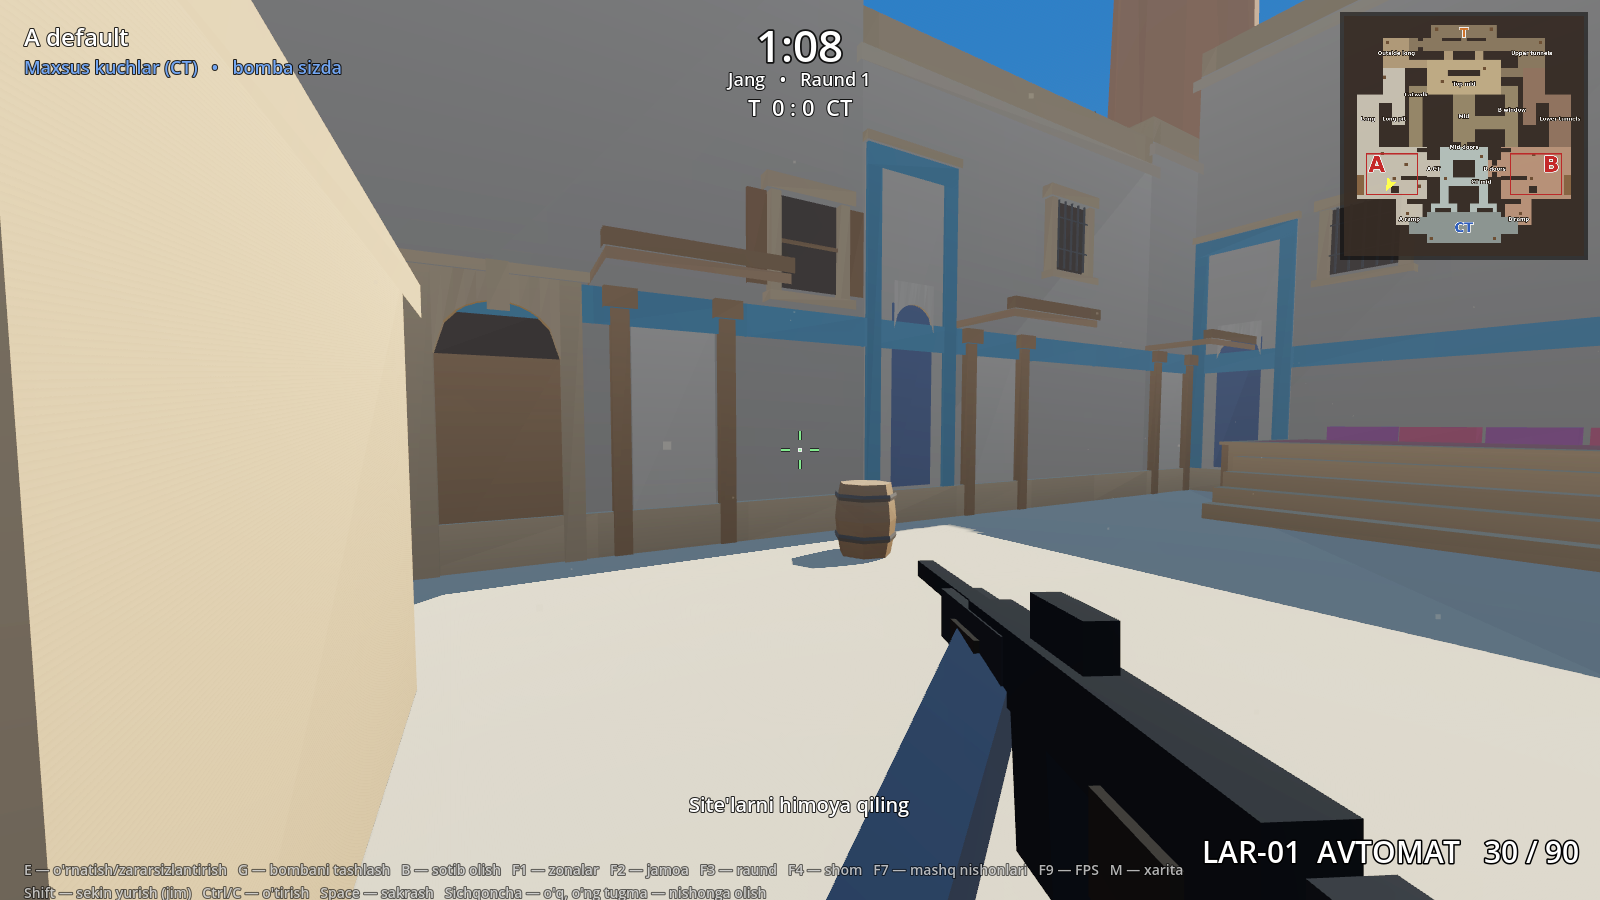
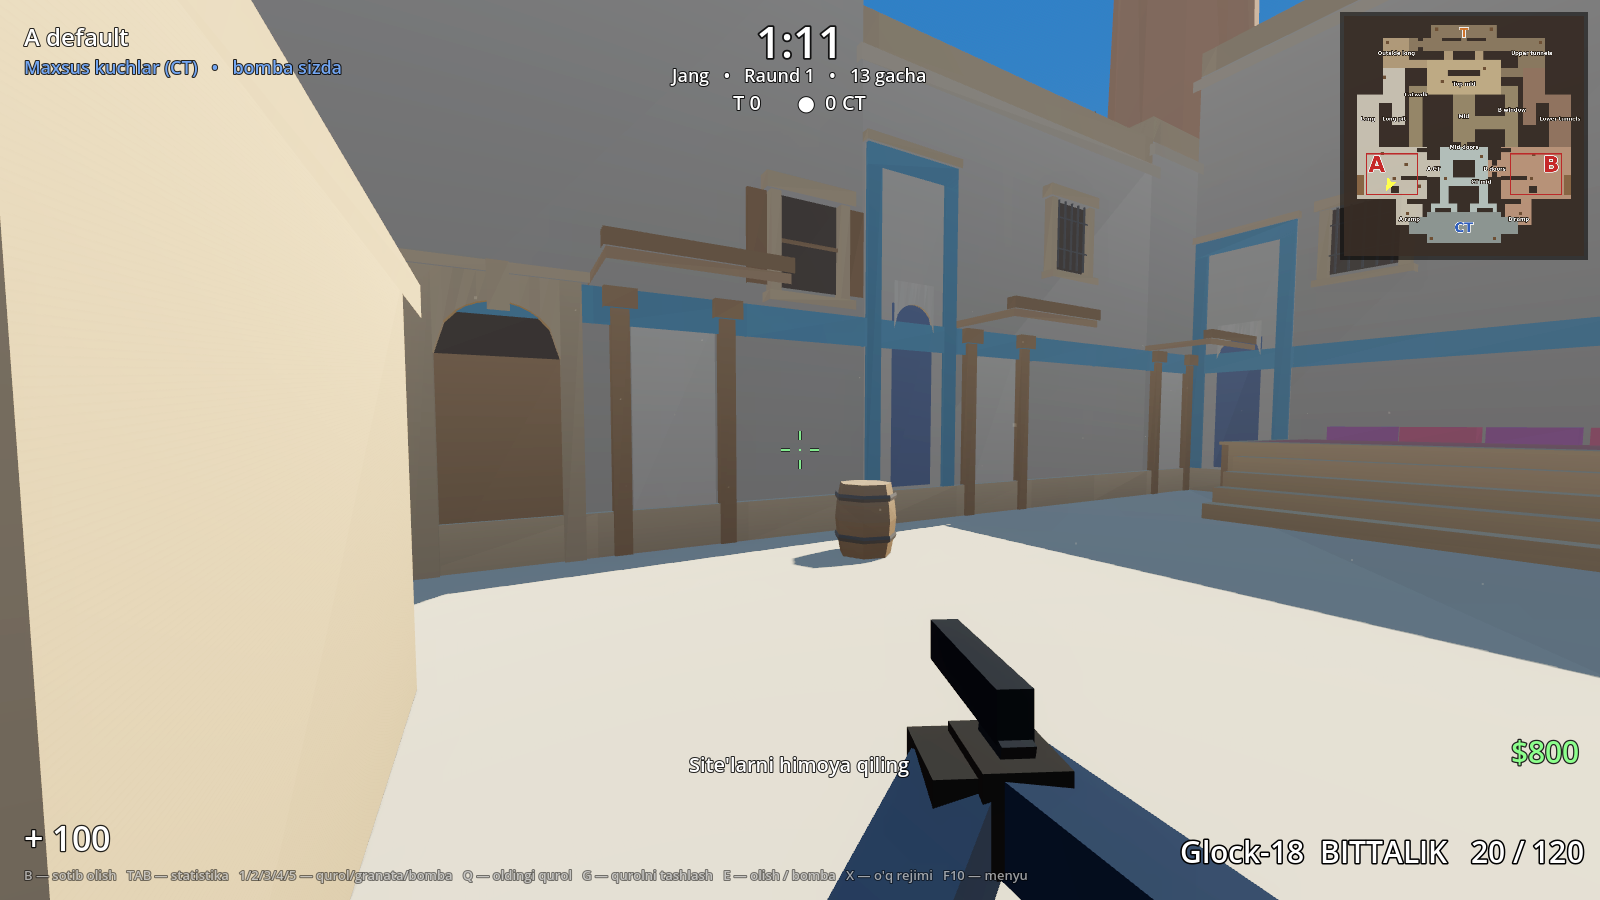
Lighting tuned (SSAO/SSIL/glow, aerial perspective, soft sun shadow), inventory screenshot tool, stage 13 doc draft
Claude-Session: https://claude.ai/code/session_017EJA2iY1fi8y7oM3SL411a

Changed region(s): [[0.0, 0.6222, 1.0, 1.0], [0.4062, 0.0311, 0.5938, 0.1244], [0.9375, 0.8089, 1.0, 0.8711]]

diff --git a/qumtepa-5v5/tools/gen_godot5.py b/qumtepa-5v5/tools/gen_godot5.py
@@ -244,13 +244,16 @@ def sky_env_lowpoly(s, full=True):
     s.add_sub("Sky", "sky", sky_material='SubResource("sky_mat")', radiance_size="1")
     props = dict(background_mode="2", sky='SubResource("sky")', ambient_light_source="3", ambient_light_color="Color(0.8, 0.76, 0.7, 1)",
                  ambient_light_sky_contribution="0.7", ambient_light_energy="0.75", reflected_light_source="2",
-                 tonemap_mode="2", tonemap_exposure="0.85", tonemap_white="6.0",
-                 fog_enabled="true", fog_light_color="Color(0.82, 0.84, 0.86, 1)", fog_density="0.0015", fog_sky_affect="0.1",
-                 volumetric_fog_density="0.0")
+                 tonemap_mode="2", tonemap_exposure="0.86", tonemap_white="6.0",
+                 fog_enabled="true", fog_light_color="Color(0.86, 0.84, 0.8, 1)", fog_density="0.0018", fog_sky_affect="0.12",
+                 fog_aerial_perspective="0.35", volumetric_fog_density="0.0")
     if full:
-        props.update(ssao_enabled="true", ssao_radius="1.2", ssao_intensity="1.6", ssao_detail="0.3", ssil_enabled="true", ssil_intensity="0.6",
-                     glow_enabled="true", glow_intensity="0.35", glow_bloom="0.03", glow_hdr_threshold="1.3",
-                     adjustment_enabled="true", adjustment_saturation="1.12", adjustment_contrast="1.04")
+        # 13-bosqich: realistikroq yorug'lik — burchak/devor tagidagi soyalar (SSAO) kuchliroq,
+        # quyoshdan qaytgan iliq yorug'lik (SSIL), yorqin sirtlarda yengil nur (glow), uzoqlik havosi
+        props.update(ssao_enabled="true", ssao_radius="1.0", ssao_intensity="2.2", ssao_power="1.6", ssao_detail="0.5",
+                     ssao_light_affect="0.15", ssil_enabled="true", ssil_radius="4.0", ssil_intensity="0.9",
+                     glow_enabled="true", glow_intensity="0.45", glow_bloom="0.04", glow_hdr_threshold="1.1", glow_blend_mode="1",
+                     adjustment_enabled="true", adjustment_saturation="1.06", adjustment_contrast="1.08")
     s.add_sub("Environment", "env", **props)
 
 
@@ -412,7 +415,8 @@ def main_scene(glb_path, out_name):
   s.node("Main", "Node3D")
   s.node("WorldEnvironment", "WorldEnvironment", ".", environment='SubResource("env")')
   s.node("Sun", "DirectionalLight3D", ".", transform=T(0, 40, 0), rotation_degrees=SUN_ROT, light_color="Color(1, 0.9, 0.74, 1)",
-         light_energy="0.95", shadow_enabled="true", shadow_blur="1.5", directional_shadow_max_distance="80.0", directional_shadow_mode="1")
+         light_energy="1.05", light_angular_distance="0.6", shadow_enabled="true", shadow_blur="1.0", shadow_normal_bias="1.2",
+         directional_shadow_max_distance="90.0", directional_shadow_mode="1", directional_shadow_blend_splits="true")
   s.node("Map", parent=".", instance=glb)
   s.node("Navigation", "NavigationRegion3D", ".", navigation_mesh=nm)
   s.node("Collision", parent="Navigation", instance=col)

diff --git a/qumtepa-5v5/docs/STAGE13.md b/qumtepa-5v5/docs/STAGE13.md
@@ -1,0 +1,100 @@
+# 13-bosqich: T va CT 3D modellari (3-shaxs animatsiyalari), inventar, CS2 qurollari, qurol tashlash/olish, botlar
+
+Tekshiruvlar: 5v5 Godot **@@T5@@**, 3v3 xaritaning o'z testlari **@@T3@@**, botlar bilan o'yin 5v5 **@@B5@@**, 3v3 **@@B3@@**,
+3v3 audit **@@A3@@**, smoke **@@SM@@**, 5v5 audit **@@A5@@**. Eski fayllar o'chirilmadi.
+
+![T — holatlar](shots/50_t_holatlar.png)
+![CT — holatlar](shots/54_ct_holatlar.png)
+
+## 1. Qahramonlar: siz bergan modellar asosida 3-shaxs animatsiyalari
+
+| | T | CT |
+|---|---|---|
+| Model | "Desert Shadow Operative" (`assets_src/t_shadow_operative.glb`) | "Counter Terrorist Operative" (`assets_src/ct_operative.glb`) |
+| O'yinda | `godot/characters/t_shadow.glb` (2.2 MB) | `godot/characters/ct_operative.glb` |
+| Skelet | modelning o'zi (Meshy auto-rig, Mixamo 28 suyak) — og'irliklar o'zgarmadi | xuddi shunday |
+
+`tools/rig_operatives.py t_shadow | ct_operative` (Blender bpy):
+- suyaklar bizning nomlarga o'tkaziladi, qo'l/oyoq "roll"i IK uchun to'g'rilanadi, bo'y 1.80 m (o'yindagi kapsula bilan bir xil);
+- qo'shiladi: `weapon` suyagi (qurol shu yerga ulanadi — kelajakda siz bergan qurol modellari ham), `mag` (qayta o'qlashda magazin);
+- **27 animatsiya**, haqiqiy odam harakatidan (CMU motion capture) + IK (qo'llar qurolda, oyoqlar yerda sirpanmaydi):
+  turish; yurish / yugurish / o'tirib yurish — har biri 4 tomonga (12 ta); o'tirib turish; sakrash (boshlanish, havoda, qo'nish);
+  bomba qo'yish (tiz cho'kib); o'lim (yiqilish); o'q uzish; qayta o'qlash (magazin almashadi);
+  qo'l pozalari: to'pponcha, pichoq, granata, C4; harakatlar: pichoq zarbasi, granata otish.
+- **Tuzatildi:** turish mocap klipida son burilishi oyoqlarga nisbatan ~107° yonga og'gan edi (tana yon tomonga qarab turardi) —
+  `mocap5.py` endi hamma kliplarda son yo'nalishini oyoqlar chizig'iga to'g'rilaydi.
+
+Godot'da (`scripts/rigged_body.gd`, `character_model.gd` ichidan ishlaydi — botlar va o'yinchining boshqalarga ko'rinadigan tanasi):
+- AnimationTree: tezlik bo'yicha yurish/yugurish aralashmasi (BlendSpace2D), o'tirish, havoda, bomba qo'yish;
+  qurol pozasi faqat yelka-qo'l suyaklariga (pastki tana yurishda davom etadi); o'q uzish / qayta o'qlash / zarba — faqat yuqori tana;
+- nishonga qarash: tananing yuqori qismi tepaga/pastga egiladi (qurol bilan birga);
+- bir qo'lli qurollar (to'pponcha, pichoq, granata, Zeus, C4) har kadrda o'ng kaftga qo'yiladi, og'zi nishonga qaraydi;
+- o'lganda qurol qo'ldan tushadi (yerga — pastga qarang), tana "death" klipi bilan yiqiladi;
+- **o'q zonalari suyaklarga bog'langan** (13 ta): bosh, ko'krak ×2, **qorin ×1.25 (CS2)**, qo'llar, oyoqlar — animatsiya bilan birga harakatlanadi.
+
+**1-shaxs butunlay alohida:** o'yinchi kamerasidagi qo'l va qurol (`character_model.gd`, `first_person=true`) bu modellarga
+umuman bog'liq emas — o'z kamerasi o'z 3-shaxs tanasini ko'rmaydi (11-qatlam), boshqalar esa faqat 3-shaxs tanani ko'radi.
+
+![T yaqindan](shots/t_yaqin_4.png)
+![CT yaqindan](shots/ct_yaqin_6.png)
+
+## 2. Qurollar va inventar
+
+- **Sotib olish menyusi = CS2**: 34 ta qurol — to'pponchalar 10 (Glock-18, USP-S, P2000, Dual Berettas, P250, Tec-9, Five-SeveN,
+  CZ75-Auto, Desert Eagle, R8 Revolver), SMG 7 (MAC-10, MP9, MP7, MP5-SD, UMP-45, P90, PP-Bizon), avtomat/snayper 11 (Galil AR, FAMAS,
+  AK-47, M4A4, M4A1-S, SG 553, AUG, SSG 08, AWP, G3SG1, SCAR-20), og'ir 6 (Nova, XM1014, Sawed-Off, MAG-7, M249, Negev) + pichoq, Zeus.
+  SG 553 / AUG — o'ng tugma bilan yaqinlashtirish; G3SG1 / SCAR-20 — optika. Narx, zarar, zirh teshish, o'q/daq, magazin — CS2 raqamlari.
+- **O'zimiz yasagan qurollar** (LAR-01, AR-44 Vanguard, Spectre-9, Longbow-50, Breacher-12, Apex-9) — sotib olishdan olindi,
+  **inventardagi "Zaxira" bo'limida** saqlanadi.
+- **PUBG Mobile — eng mashhur 10 ta**: M416, AKM, M762, SCAR-L, Groza, AWM, Kar98k, UMP45, Vector, DP-28 (inventarda, o'yinda sotilmaydi).
+- **Inventar** (bosh menyu → 4): uch bo'lim (CS2 / Zaxira / PUBG Mobile), har qurolning nomi, rasmi va to'liq ma'lumoti
+  (narx, zarar, bosh, zirh teshish, tezlik, magazin, masofada zarar, yurish tezligi).
+
+![Inventar — CS2](shots/56_inventar_cs2.png)
+![Inventar — PUBG Mobile](shots/58_inventar_pubg.png)
+
+## 3. Qurolni tashlash, olish, almashtirish (CS2)
+
+| Tugma / holat | Nima bo'ladi |
+|---|---|
+| **G** | qo'ldagi qurol (asosiy yoki to'pponcha) oldinga otiladi va yerda yotadi (fizika bilan); 5-slotda — bomba |
+| ustidan yurib o'tish | shu turdagi joyingiz bo'sh bo'lsa — avtomatik olinadi (magazin/zaxira saqlanadi) |
+| **E** (qurolga qarab) | olinadi, qo'lingizdagi o'sha turdagi qurol yerga tushadi; ekranda "E — AWP ni olish ($4750)" |
+| o'lganda | eng yaxshi quroli (asosiy, bo'lmasa to'pponcha) yerga tushadi — boshqalar olishi mumkin (botlar ham) |
+| yangi raund | yerdagi qurollar yo'qoladi |
+| **Q** | oldingi qurolga qaytish |
+
+Qo'shimcha CS2 funksiyasi: **tagging** — o'q tekkanda 0.4 s sekinlashish.
+
+## 4. Botlar: "chiqishi bilan urib qo'yish" tuzatildi
+
+Oldin reaksiya 0.1–0.28 s, mo'ljal xatosi 0.35 s da yo'qolardi va o'qlarning ~63% boshga qaratilardi — bot ko'rinishi bilan urardi.
+Endi odamga o'xshash:
+- **reaksiya** 0.26–0.42 s (ko'rish + qaror); qarab turgan tomondan uzoqda chiqsangiz — burilish uchun +0.14 s (90°) … +0.28 s (orqada);
+  o'zi yurayotgan bo'lsa — to'xtash +0.12 s; uzoqdagi va o'tirgan nishonni sezish qiyinroq;
+- **birinchi o'qlar ko'pincha tegmaydi**: burilib kelgan mo'ljal xatosi 0.03 rad (20 m da ~60 sm), kuzatgan sari ~0.5 s da aniqlashadi;
+  oldindan qarab turgan burchakda kichikroq (0.014);
+- **boshga mo'ljal kamroq**: yaqinda ~40%, o'rtada ~30%, uzoqda ~15%, spray paytida ko'krakka; harakatlanayotgan nishonga qiyinroq.
+
+@@BOTSTATS@@
+
+## 5. Grafika
+
+Xarita uslubi (siz tanlagan low-poly) saqlandi, yorug'lik realistikroq qilindi: burchak/devor tagidagi soyalar (SSAO) kuchliroq,
+quyoshdan qaytgan iliq yorug'lik (SSIL), yorqin sirtlarda yengil nur (glow), uzoqlik havosi (aerial perspective), yumshoq quyosh
+soyasi (burchak o'lchami 0.6°, bo'laklar orasida silliq o'tish), kontrast. Qahramonlar endi haqiqiy teksturali 3D modellar.
+Eslatma: SSAO/SSIL/glow va yumshoq soyalar Forward+ renderda (sizning kompyuteringizda) ko'rinadi; bu yerdagi skrinshotlar
+"compatibility" renderda olingan.
+
+## Fayllar
+
+| Fayl | Nima |
+|---|---|
+| `tools/rig_operatives.py` | T va CT: skelet tayyorlash, 27 animatsiya (bpy, CMU mocap + IK) |
+| `tools/mocap5.py` | mocap treklari (son yo'nalishi tuzatildi) |
+| `scripts/rigged_body.gd` | 3-shaxs model: AnimationTree, qurol, o'q zonalari, nishonga egilish |
+| `scripts/weapon_drop.gd` | yerdagi qurol |
+| `scripts/inventory.gd`, `inventory.tscn` | inventar ekrani |
+| `scripts/weapon_icon.gd` | qurol rasmlari (menyu va inventar) |
+| `tools/gen_weapons.py` | 34 CS2 + 10 PUBG Mobile qurollari, zaxira |
+| `tools/godot_src/tools/t_shots.gd`, `inv_shot.gd` | skrinshotlar |
